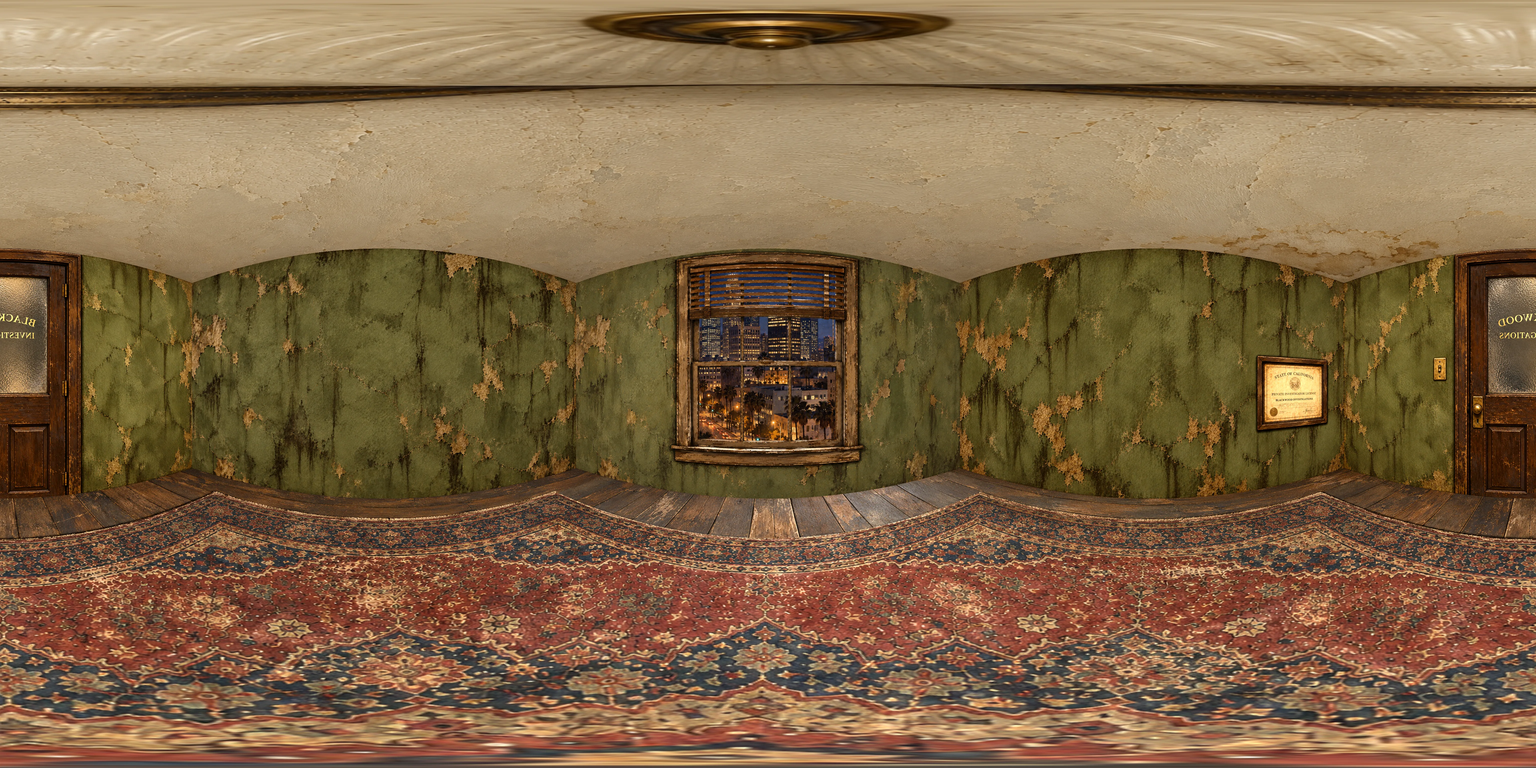
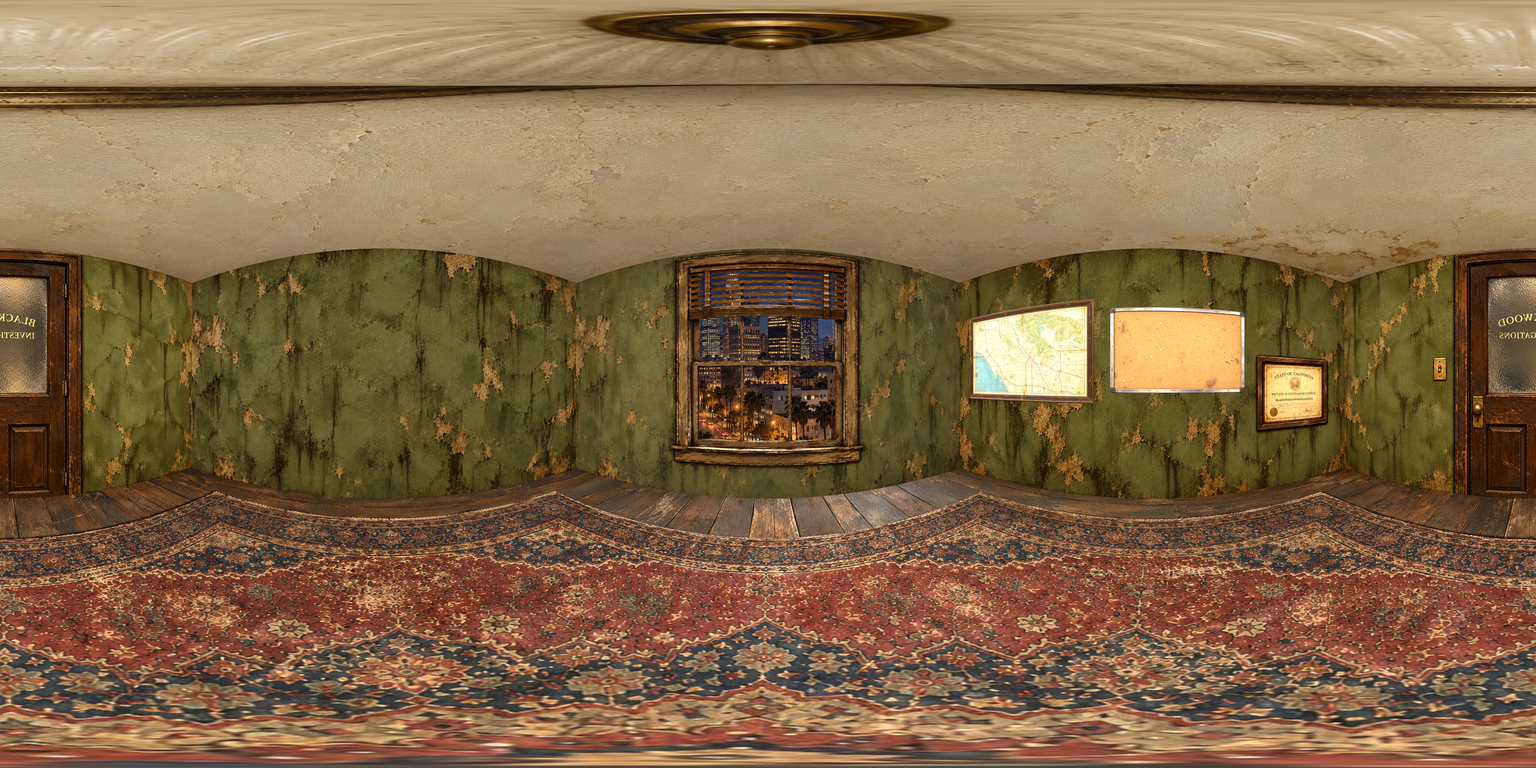
Testing Zone: office furniture, and the map and cork board on the right wall
Claude-Session: https://claude.ai/code/session_013LCfUXWQD6NCZDVs8qittP

Changed region(s): [[0.625, 0.375, 0.8125, 0.5312]]

diff --git a/src/game/testing/current-test.ts b/src/game/testing/current-test.ts
@@ -120,6 +120,11 @@ export const CURRENT_TEST = {
         { id: "mailtray", image: "/testing/office/props/mailtray.webp", x: 0.2, z: -0.545, width: 0.095, height: 0.0617, sink: -0.29, gain: 1.3, layer: 1 },
         { id: "labfolder", image: "/testing/office/props/labfolder.webp", x: 0.2, z: -0.545, width: 0.06, height: 0.043, sink: -0.302, gain: 1.3, layer: 2 },
         { id: "recorder", image: "/testing/office/props/recorder.webp", x: 0.225, z: -0.545, width: 0.085, height: 0.058, sink: -0.232, gain: 1.3, layer: 2 },
+        // Furniture around the room (the room is about 16 feet square; its walls are 0.888 from the middle).
+        { id: "cabinet", image: "/testing/office/props/cabinet.webp", x: 0.72, z: -0.72, width: 0.251, height: 0.633, gain: 1.4, shadow: { width: 0.3, depth: 0.22, back: 0.05 } },
+        { id: "typing-table", image: "/testing/office/props/typing_table.webp", x: -0.76, z: 0, width: 0.6, height: 0.42, gain: 1.4, shadow: { width: 0.6, depth: 0.2, back: 0.04 } },
+        { id: "chair", image: "/testing/office/props/chair.webp", x: -0.72, z: 0.45, width: 0.272, height: 0.355, gain: 1.4, shadow: { width: 0.3, depth: 0.25, back: 0.05 } },
+        { id: "coat-rack", image: "/testing/office/props/coat_rack.webp", x: 0.72, z: 0.72, width: 0.236, height: 0.667, gain: 1.4, shadow: { width: 0.22, depth: 0.2, back: 0.02 } },
         // Deliveries: they arrive at the front of the desk, over the file, and come and go with the case (test buttons).
         { id: "envelope-sealed", image: "/testing/office/props/envelope_sealed.webp", x: -0.07, z: -0.545, width: 0.1, height: 0.0694, sink: -0.222, gain: 1.3, layer: 3, when: { toggle: "envelope", state: "sealed" } },
         { id: "envelope-open", image: "/testing/office/props/envelope_open.webp", x: -0.07, z: -0.545, width: 0.1, height: 0.0711, sink: -0.222, gain: 1.3, layer: 3, when: { toggle: "envelope", state: "opened" } },
@@ -145,6 +150,10 @@ export const CURRENT_TEST = {
         { kind: "inspect", id: "office-notebook", yaw: 12.4, pitch: -17.7, label: "Notebook", text: "Test hotspot. In the case this opens your notebook." },
         { kind: "inspect", id: "office-recorder", yaw: 22.4, pitch: -17.8, label: "Police interview tapes", text: "Test hotspot. In the case this plays the interview tapes." },
         { kind: "inspect", id: "office-mail", yaw: 23.5, pitch: -11.2, label: "Opened mail", text: "Test hotspot. In the case this shows the mail you have opened." },
+        { kind: "inspect", id: "office-board", yaw: 96.4, pitch: 8.1, label: "Murder board", text: "Test hotspot. In the case this opens the murder board." },
+        { kind: "inspect", id: "office-map", yaw: 59.6, pitch: 7.1, label: "Street map of Los Angeles", text: "Test hotspot. In the case this opens the map to travel." },
+        { kind: "inspect", id: "office-typewriter", yaw: -90, pitch: -9.7, label: "Typewriter: final report", text: "Test hotspot. In the case this is where you type the final report." },
+        { kind: "inspect", id: "office-cabinet", yaw: 45, pitch: -9.2, label: "Filing cabinet", text: "Test hotspot. Old case files." },
         { kind: "inspect", id: "office-envelope", yaw: -7.3, pitch: -19.3, label: "Manila envelope", text: "Test hotspot. In the case Patricia's envelope is opened here.", when: { toggle: "envelope", state: "sealed" } },
         { kind: "inspect", id: "office-envelope-open", yaw: -7.3, pitch: -19.3, label: "Envelope from Patricia Wells", text: "Test hotspot. In the case this shows the torn bank statement.", when: { toggle: "envelope", state: "opened" } },
         { kind: "inspect", id: "office-bag", yaw: 7.3, pitch: -19.5, label: "Police evidence bag", text: "Test hotspot. In the case the evidence bag is opened here.", when: { toggle: "bag", state: "sealed" } },
